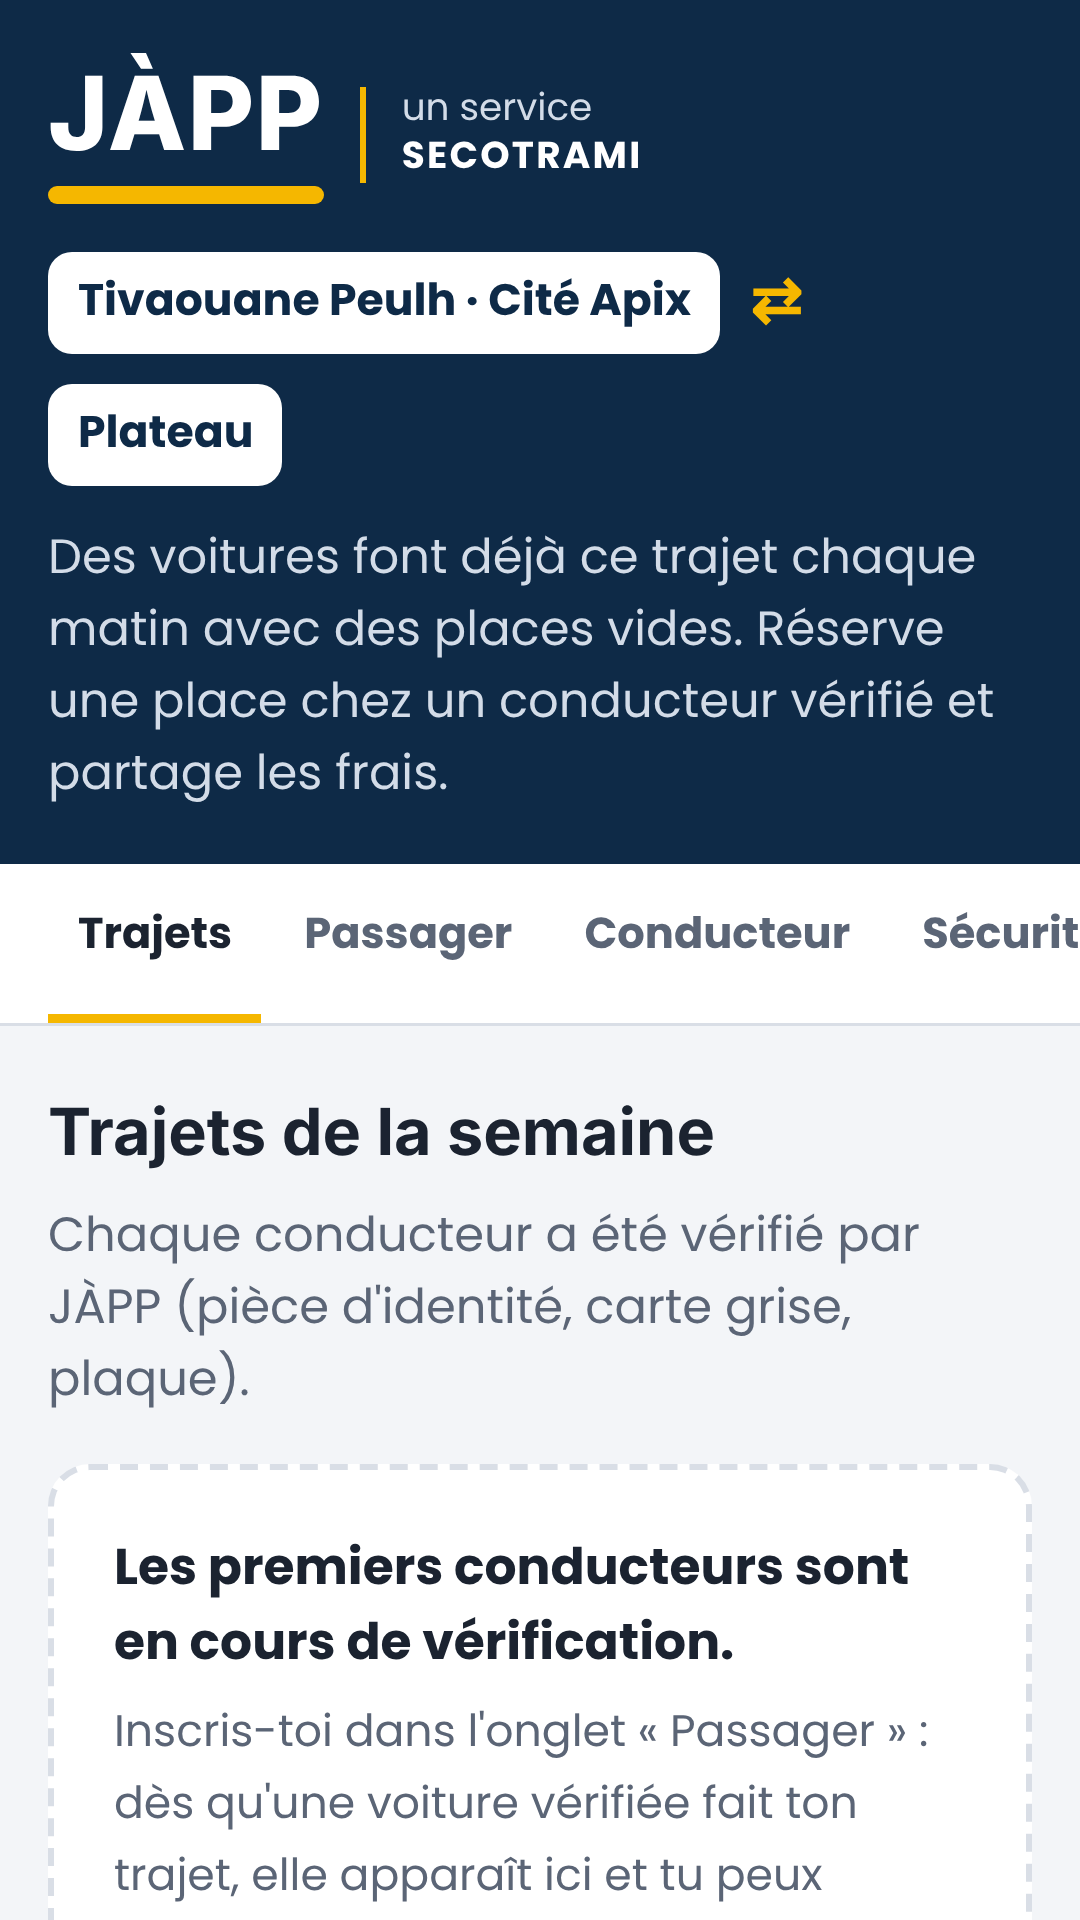
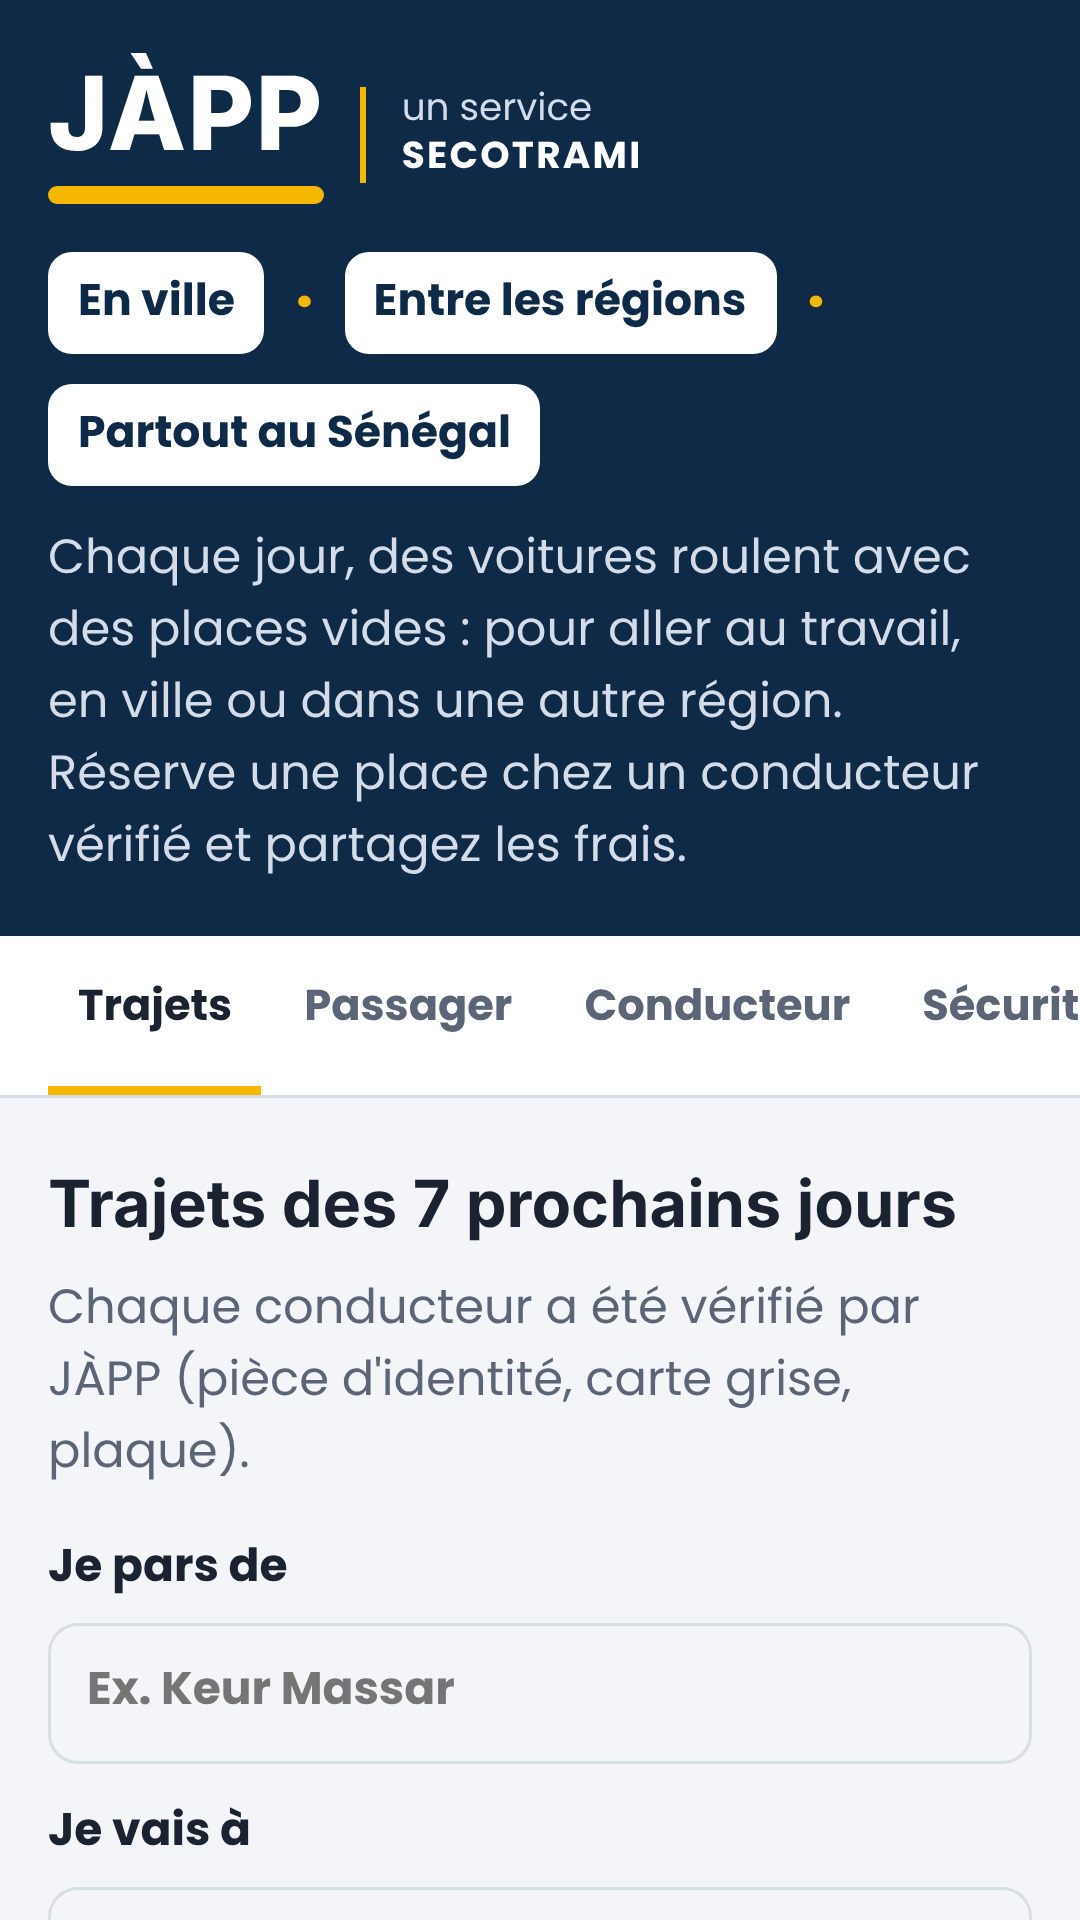
JÀPP : trajets partout au Sénégal (filtre départ/destination, jours, horaires libres)
Claude-Session: https://claude.ai/code/session_011qnmqo7aXx9AobSP2SRYtp

diff --git a/pages/japp.html b/pages/japp.html
@@ -4,10 +4,10 @@
 <meta charset="utf-8">
 <meta name="viewport" content="width=device-width,initial-scale=1,viewport-fit=cover">
 <title>JÀPP Covoiturage</title>
-<meta name="description" content="JÀPP, un service SECOTRAMI : covoiturage vérifié entre Tivaouane Peulh (Cité Apix) et le Plateau. Réserve une place dans une voiture qui fait déjà le trajet, ou propose tes places vides.">
+<meta name="description" content="JÀPP, un service SECOTRAMI : covoiturage vérifié partout au Sénégal. Réserve une place dans une voiture qui fait déjà le trajet, ou propose tes places vides.">
 <link rel="canonical" href="https://kaayxoolli-spec.github.io/japp.html">
 <meta property="og:title" content="JÀPP Covoiturage">
-<meta property="og:description" content="Tivaouane Peulh → Plateau, en voiture, avec des conducteurs vérifiés.">
+<meta property="og:description" content="Covoiturage partout au Sénégal, avec des conducteurs vérifiés.">
 <meta property="og:image" content="https://kaayxoolli-spec.github.io/assets/japp/icon.png">
 <meta name="theme-color" content="#0E2A47">
 <link rel="manifest" href="/assets/japp/manifest.webmanifest">
@@ -70,6 +70,7 @@ legend{font-weight:600;font-size:.95em;margin-bottom:8px}
 .chips{display:flex;flex-wrap:wrap;gap:8px}
 .chips label{display:flex;flex-direction:row;align-items:center;gap:6px;font-weight:500;background:var(--bg);border:1px solid var(--line);border-radius:999px;padding:6px 12px}
 .chips input{width:auto;margin:0}
+.filtre{margin-bottom:14px}
 .ok{background:var(--bg);border:1.5px solid var(--ok);border-radius:12px;padding:14px;display:grid;gap:10px}
 .ok b{color:var(--ok)}
 .days{display:flex;flex-wrap:wrap;gap:6px}
@@ -95,8 +96,8 @@ footer{color:var(--muted);font-size:.86em;padding-block:0 30px}
 <header>
   <div class="wrap">
     <div class="brand"><div class="logo">JÀPP<span></span></div><div class="by">un service<br><b>SECOTRAMI</b></div></div>
-    <div class="route"><span class="stop">Tivaouane Peulh · Cité Apix</span><span class="arrow">⇄</span><span class="stop">Plateau</span></div>
-    <p class="pitch">Des voitures font déjà ce trajet chaque matin avec des places vides. Réserve une place chez un conducteur vérifié et partage les frais.</p>
+    <div class="route"><span class="stop">En ville</span><span class="arrow">·</span><span class="stop">Entre les régions</span><span class="arrow">·</span><span class="stop">Partout au Sénégal</span></div>
+    <p class="pitch">Chaque jour, des voitures roulent avec des places vides : pour aller au travail, en ville ou dans une autre région. Réserve une place chez un conducteur vérifié et partagez les frais.</p>
   </div>
 </header>
 <nav aria-label="Sections">
@@ -110,8 +111,12 @@ footer{color:var(--muted);font-size:.86em;padding-block:0 30px}
 <main class="wrap">
 
 <section id="p-trajets" role="tabpanel" aria-labelledby="t-trajets">
-  <h2>Trajets de la semaine</h2>
+  <h2>Trajets des 7 prochains jours</h2>
   <p class="lead">Chaque conducteur a été vérifié par JÀPP (pièce d'identité, carte grise, plaque).</p>
+  <div class="row filtre">
+    <label for="fd">Je pars de<input id="fd" list="lieux" placeholder="Ex. Keur Massar" autocomplete="off"></label>
+    <label for="fa">Je vais à<input id="fa" list="lieux" placeholder="Ex. Dakar Plateau" autocomplete="off"></label>
+  </div>
   <div id="trips" class="trips">
     <div class="empty"><strong>Chargement des trajets…</strong></div>
   </div>
@@ -129,8 +134,12 @@ footer{color:var(--muted);font-size:.86em;padding-block:0 30px}
     <label for="pn">Prénom et nom<input id="pn" name="nom" autocomplete="name" required></label>
     <label for="pt">Téléphone WhatsApp<input id="pt" name="tel" type="tel" inputmode="tel" autocomplete="tel" placeholder="77 000 00 00" required></label>
     <div class="row">
-      <label for="ps">Sens<select id="ps" name="sens"><option>Tivaouane Peulh → Plateau</option><option>Plateau → Tivaouane Peulh</option><option>Aller et retour</option></select></label>
-      <label for="ph">Heure de départ<select id="ph" name="heure"><option>6h00 – 6h30</option><option selected>6h30 – 7h00</option><option>7h00 – 7h30</option><option>7h30 – 8h00</option><option>17h00 – 17h30</option><option>17h30 – 18h00</option><option>18h00 – 18h30</option><option>18h30 – 19h00</option></select></label>
+      <label for="pd">Je pars de<input id="pd" name="depart" list="lieux" placeholder="Ville ou quartier" required></label>
+      <label for="pv">Je vais à<input id="pv" name="dest" list="lieux" placeholder="Ville ou quartier" required></label>
+    </div>
+    <div class="row">
+      <label for="ph">Heure de départ<select id="ph" name="heure"><option>tôt le matin (5h – 7h)</option><option selected>le matin (7h – 10h)</option><option>en journée (10h – 16h)</option><option>le soir (16h – 20h)</option><option>la nuit (après 20h)</option><option>peu importe</option></select></label>
+      <label for="pr">Retour<select id="pr" name="retour"><option>aller simple</option><option>aller et retour le même jour</option><option>retour un autre jour</option></select></label>
     </div>
     <fieldset><legend>Quels jours ?</legend><div class="chips" id="pj">
       <label><input type="checkbox" name="jour" value="lundi" checked> Lun</label>
@@ -139,9 +148,10 @@ footer{color:var(--muted);font-size:.86em;padding-block:0 30px}
       <label><input type="checkbox" name="jour" value="jeudi" checked> Jeu</label>
       <label><input type="checkbox" name="jour" value="vendredi" checked> Ven</label>
       <label><input type="checkbox" name="jour" value="samedi"> Sam</label>
+      <label><input type="checkbox" name="jour" value="dimanche"> Dim</label>
     </div></fieldset>
-    <label for="pq">Point de départ (quartier, repère)<input id="pq" name="lieu" placeholder="Ex. rond-point Cité Apix"></label>
-    <label for="pa">Point d'arrivée au Plateau<input id="pa" name="arrivee" placeholder="Ex. Place de l'Indépendance"></label>
+    <label for="pq">Point de départ précis (repère)<input id="pq" name="lieu" placeholder="Ex. rond-point, station, marché"></label>
+    <label for="pa">Point d'arrivée précis (repère)<input id="pa" name="arrivee" placeholder="Ex. gare routière, lieu de travail"></label>
     <p class="err" id="e-place" role="alert"></p>
     <input type="text" name="site" tabindex="-1" autocomplete="off" aria-hidden="true" style="position:absolute;left:-9999px">
     <button class="btn btn-wa" type="submit">✅ M'inscrire comme passager</button>
@@ -152,7 +162,7 @@ footer{color:var(--muted);font-size:.86em;padding-block:0 30px}
 
 <section id="p-conduis" role="tabpanel" aria-labelledby="t-conduis" hidden>
   <h2>Je conduis : je propose mes places</h2>
-  <p class="lead">Tu fais déjà le trajet ? Prends 1 à 3 passagers vérifiés du quartier et partage tes frais d'essence et de péage.</p>
+  <p class="lead">Tu fais déjà le trajet, en ville ou vers une autre région ? Prends 1 à 4 passagers vérifiés et partage tes frais d'essence et de péage.</p>
   <form id="f-conduis" novalidate>
     <label for="cn">Prénom et nom<input id="cn" name="nom" autocomplete="name" required></label>
     <label for="ct">Téléphone WhatsApp<input id="ct" name="tel" type="tel" inputmode="tel" autocomplete="tel" placeholder="77 000 00 00" required></label>
@@ -161,10 +171,15 @@ footer{color:var(--muted);font-size:.86em;padding-block:0 30px}
       <label for="cp">Places libres<select id="cp" name="places"><option>1</option><option selected>2</option><option>3</option><option>4</option></select></label>
     </div>
     <div class="row">
-      <label for="ch">Départ le matin<select id="ch" name="matin"><option>6h00</option><option>6h15</option><option selected>6h30</option><option>6h45</option><option>7h00</option><option>7h15</option><option>7h30</option><option>pas le matin</option></select></label>
-      <label for="cr">Retour le soir<select id="cr" name="soir"><option>pas le soir</option><option>17h00</option><option>17h30</option><option selected>18h00</option><option>18h30</option><option>19h00</option></select></label>
+      <label for="cd">Je pars de<input id="cd" name="depart" list="lieux" placeholder="Ville ou quartier" required></label>
+      <label for="cv2">Je vais à<input id="cv2" name="dest" list="lieux" placeholder="Ville ou quartier" required></label>
     </div>
-    <label for="cq">Où tu passes (quartier, route)<input id="cq" name="lieu" placeholder="Ex. Cité Apix, autoroute à péage"></label>
+    <div class="row">
+      <label for="ch">Heure de départ (aller)<select id="ch" name="matin"><option>5h00</option><option>5h30</option><option>6h00</option><option selected>6h30</option><option>7h00</option><option>7h30</option><option>8h00</option><option>8h30</option><option>9h00</option><option>9h30</option><option>10h00</option><option>10h30</option><option>11h00</option><option>11h30</option><option>12h00</option><option>12h30</option><option>13h00</option><option>13h30</option><option>14h00</option><option>14h30</option><option>15h00</option><option>15h30</option><option>16h00</option><option>16h30</option><option>17h00</option><option>17h30</option><option>18h00</option><option>18h30</option><option>19h00</option><option>19h30</option><option>20h00</option><option>20h30</option><option>21h00</option><option>21h30</option><option>22h00</option><option>22h30</option></select></label>
+      <label for="cr">Heure du retour<select id="cr" name="soir"><option>pas de retour</option><option>5h00</option><option>5h30</option><option>6h00</option><option>6h30</option><option>7h00</option><option>7h30</option><option>8h00</option><option>8h30</option><option>9h00</option><option>9h30</option><option>10h00</option><option>10h30</option><option>11h00</option><option>11h30</option><option>12h00</option><option>12h30</option><option>13h00</option><option>13h30</option><option>14h00</option><option>14h30</option><option>15h00</option><option>15h30</option><option>16h00</option><option>16h30</option><option>17h00</option><option>17h30</option><option selected>18h00</option><option>18h30</option><option>19h00</option><option>19h30</option><option>20h00</option><option>20h30</option><option>21h00</option><option>21h30</option><option>22h00</option><option>22h30</option></select></label>
+    </div>
+    <fieldset><legend>Quels jours ?</legend><div class="chips"><label><input type="checkbox" name="cjour" value="lundi" checked> Lun</label><label><input type="checkbox" name="cjour" value="mardi" checked> Mar</label><label><input type="checkbox" name="cjour" value="mercredi" checked> Mer</label><label><input type="checkbox" name="cjour" value="jeudi" checked> Jeu</label><label><input type="checkbox" name="cjour" value="vendredi" checked> Ven</label><label><input type="checkbox" name="cjour" value="samedi"> Sam</label><label><input type="checkbox" name="cjour" value="dimanche"> Dim</label></div></fieldset>
+    <label for="cq">Par où tu passes (route, quartiers)<input id="cq" name="lieu" placeholder="Ex. autoroute à péage, Rufisque"></label>
     <p class="err" id="e-conduis" role="alert"></p>
     <input type="text" name="site" tabindex="-1" autocomplete="off" aria-hidden="true" style="position:absolute;left:-9999px">
     <button class="btn btn-ink" type="submit">🚗 M'inscrire comme conducteur</button>
@@ -193,7 +208,8 @@ footer{color:var(--muted);font-size:.86em;padding-block:0 30px}
 </section>
 
 </main>
-<footer class="wrap"><p>JÀPP, un service SECOTRAMI · Covoiturage Tivaouane Peulh ⇄ Plateau · Phase de test · WhatsApp 76 888 80 00 · <a href="/japp-confidentialite.html">Confidentialité</a></p></footer>
+<datalist id="lieux"><option value="Dakar Plateau"><option value="Médina"><option value="Fann – Point E"><option value="Mermoz – Sacré-Cœur"><option value="Liberté"><option value="Grand Yoff"><option value="HLM"><option value="Parcelles Assainies"><option value="Ouakam"><option value="Ngor – Almadies"><option value="Yoff"><option value="Patte d'Oie"><option value="Pikine"><option value="Guédiawaye"><option value="Thiaroye"><option value="Keur Massar"><option value="Malika"><option value="Tivaouane Peulh – Cité Apix"><option value="Keur Mbaye Fall"><option value="Mbao"><option value="Rufisque"><option value="Bargny"><option value="Sangalkam"><option value="Bambilor – Lac Rose"><option value="Diamniadio"><option value="Sébikotane"><option value="AIBD (aéroport)"><option value="Thiès"><option value="Mbour"><option value="Saly"><option value="Somone"><option value="Popenguine"><option value="Joal-Fadiouth"><option value="Tivaouane"><option value="Mboro"><option value="Louga"><option value="Saint-Louis"><option value="Richard-Toll"><option value="Podor"><option value="Matam"><option value="Touba"><option value="Mbacké"><option value="Diourbel"><option value="Bambey"><option value="Kaolack"><option value="Fatick"><option value="Foundiougne"><option value="Kaffrine"><option value="Tambacounda"><option value="Kédougou"><option value="Kolda"><option value="Sédhiou"><option value="Ziguinchor"><option value="Cap Skirring"><option value="Bignona"></datalist>
+<footer class="wrap"><p>JÀPP, un service SECOTRAMI · Covoiturage partout au Sénégal · Phase de test · WhatsApp 76 888 80 00 · <a href="/japp-confidentialite.html">Confidentialité</a></p></footer>
 
 <script>
 (function(){
@@ -224,12 +240,15 @@ footer{color:var(--muted);font-size:.86em;padding-block:0 30px}
   }
   function render(){
     if(!trips.length){emptyState();return;}
-    box.innerHTML=trips.map(function(t,k){
+    var fd=norm(document.getElementById('fd').value), fa=norm(document.getElementById('fa').value);
+    var shown=trips.map(function(t,k){return [t,k];}).filter(function(x){return (!fd||norm(x[0].depart).indexOf(fd)>=0)&&(!fa||norm(x[0].arrivee).indexOf(fa)>=0);});
+    if(!shown.length){box.innerHTML='<div class="empty"><strong>Pas encore de voiture sur ce trajet.</strong><span class="meta">Inscris-toi dans l\'onglet « Passager » avec ce trajet : JÀPP cherche un conducteur et te prévient.</span></div>';return;}
+    box.innerHTML=shown.map(function(x){var t=x[0],k=x[1];
       var any=t.jours.some(function(d){return d.libres>0;});
       return '<article class="trip" data-k="'+k+'">'
         +'<div class="trip-top"><span class="time">'+esc(t.heure)+'</span><span class="price">'+Number(t.prix).toLocaleString('fr-FR')+' F / place</span></div>'
         +'<div><b>'+esc(t.depart)+' → '+esc(t.arrivee)+'</b></div>'
-        +'<div class="meta">'+esc(t.voiture)+' · RDV : '+esc(t.rdv)+'</div>'
+        +'<div class="meta">'+esc(t.voiture)+' · RDV : '+esc(t.rdv)+' · '+t.jours.length+' jour'+(t.jours.length>1?'s':'')+' cette semaine</div>'
         +'<div class="trip-top"><span class="badge">✔ '+esc(t.conducteur)+' · vérifié</span><span class="seats">'+t.places+' place'+(t.places>1?'s':'')+'</span></div>'
         +(any?'<button class="btn btn-wa" type="button" data-open="'+k+'">Réserver une place</button>':'<div class="seats">Complet cette semaine</div>')
         +'<form class="resa" data-k="'+k+'" hidden novalidate>'
@@ -267,6 +286,8 @@ footer{color:var(--muted);font-size:.86em;padding-block:0 30px}
       btn.disabled=false;btn.textContent='Confirmer ma réservation';
     }).catch(function(){err.textContent='Pas de connexion. Vérifie ton internet et réessaie.';btn.disabled=false;btn.textContent='Confirmer ma réservation';});
   });
+  function norm(v){return String(v||'').toLowerCase().normalize('NFD').replace(/[\u0300-\u036f]/g,'').trim();}
+  ['fd','fa'].forEach(function(id){document.getElementById(id).addEventListener('input',render);});
   function load(){
     fetch(API,{cache:'no-store'}).then(function(r){return r.json();}).then(function(d){
       trips=(d&&d.trajets)||[]; render();
@@ -281,9 +302,10 @@ footer{color:var(--muted);font-size:.86em;padding-block:0 30px}
     ev.preventDefault(); var f=ev.target, err=document.getElementById('e-place'), btn=f.querySelector('button[type=submit]');
     var jours=[].slice.call(f.querySelectorAll('input[name=jour]:checked')).map(function(c){return c.value;});
     if(!f.nom.value.trim()||f.tel.value.replace(/\D/g,'').length<9){err.textContent='Écris ton nom et ton numéro WhatsApp complet.';return;}
+    if(!f.depart.value.trim()||!f.dest.value.trim()){err.textContent='Écris d\'où tu pars et où tu vas.';return;}
     if(!jours.length){err.textContent='Choisis au moins un jour.';return;}
     err.textContent='';btn.disabled=true;
-    var data={type:'passager',site:f.site.value,nom:f.nom.value,tel:f.tel.value,sens:f.sens.value,heure:f.heure.value,jours:jours.join(', '),lieu:f.lieu.value,arrivee:f.arrivee.value};
+    var data={type:'passager',site:f.site.value,nom:f.nom.value,tel:f.tel.value,sens:f.depart.value.trim()+' → '+f.dest.value.trim()+' ('+f.retour.value+')',heure:f.heure.value,jours:jours.join(', '),lieu:f.lieu.value,arrivee:f.arrivee.value};
     post(data).then(function(r){
       btn.disabled=false;
       if(!r.ok){err.textContent='Vérifie ton nom et ton numéro, puis réessaie.';return;}
@@ -296,9 +318,12 @@ footer{color:var(--muted);font-size:.86em;padding-block:0 30px}
   // Driver form
   document.getElementById('f-conduis').addEventListener('submit',function(ev){
     ev.preventDefault(); var f=ev.target, err=document.getElementById('e-conduis'), btn=f.querySelector('button[type=submit]');
+    var cj=[].slice.call(f.querySelectorAll('input[name=cjour]:checked')).map(function(c){return c.value;});
     if(!f.nom.value.trim()||f.tel.value.replace(/\D/g,'').length<9||!f.voiture.value.trim()){err.textContent='Écris ton nom, ton numéro complet et ta voiture.';return;}
+    if(!f.depart.value.trim()||!f.dest.value.trim()){err.textContent='Écris d\'où tu pars et où tu vas.';return;}
+    if(!cj.length){err.textContent='Choisis au moins un jour.';return;}
     err.textContent='';btn.disabled=true;
-    post({type:'conducteur',site:f.site.value,nom:f.nom.value,tel:f.tel.value,voiture:f.voiture.value,places:f.places.value,matin:f.matin.value,soir:f.soir.value,lieu:f.lieu.value}).then(function(r){
+    post({type:'conducteur',site:f.site.value,nom:f.nom.value,tel:f.tel.value,voiture:f.voiture.value,places:f.places.value,matin:f.matin.value,soir:f.soir.value,lieu:f.lieu.value,depart:f.depart.value,dest:f.dest.value,jours:cj.join(', ')}).then(function(r){
       btn.disabled=false;
       if(!r.ok){err.textContent='Vérifie les champs, puis réessaie.';return;}
       done(document.getElementById('o-conduis'),'<b>✅ Inscription reçue (n° '+esc(r.id)+')</b><span>Dernière étape : envoie ta pièce d\'identité, ton permis et ta carte grise à JÀPP sur WhatsApp. Dès que c\'est vérifié, tes trajets apparaissent dans l\'application.</span>'

diff --git a/pages/japp-confidentialite.html b/pages/japp-confidentialite.html
@@ -12,9 +12,9 @@ h1{font-size:1.4em;line-height:1.3}h2{font-size:1.1em;margin-top:1.6em}a{color:i
 .btn{display:inline-block;background:var(--ink);color:#fff;text-decoration:none;padding:12px 18px;border-radius:12px;font-weight:700}
 </style></head><body><header><b>JÀPP</b> <span style="color:#D3DCE8">· un service SECOTRAMI</span></header><main><h1>Politique de confidentialité de JÀPP</h1>
 <p>Dernière mise à jour : 18 novembre 2026</p>
-<p>JÀPP est un service de covoiturage entre Tivaouane Peulh et le Plateau (Dakar), proposé par <b>SECOTRAMI</b>. Cette page explique quelles informations nous gardons, pourquoi, et comment les faire corriger ou supprimer.</p>
+<p>JÀPP est un service de covoiturage partout au Sénégal, proposé par <b>SECOTRAMI</b>. Cette page explique quelles informations nous gardons, pourquoi, et comment les faire corriger ou supprimer.</p>
 <h2>Les informations que nous gardons</h2>
-<ul><li><b>Passagers :</b> prénom et nom, numéro de téléphone, sens et heure du trajet, jours souhaités, points de départ et d'arrivée indiqués.</li>
+<ul><li><b>Passagers :</b> prénom et nom, numéro de téléphone, départ, destination et heure du trajet, jours souhaités, points de départ et d'arrivée indiqués.</li>
 <li><b>Conducteurs :</b> prénom et nom, numéro de téléphone, voiture (marque, couleur), plaque, nombre de places, horaires et itinéraire.</li>
 <li><b>Réservations :</b> trajet, jour, heure, présence, paiement et montant.</li></ul>
 <p>L'application ne demande ni numéro de pièce d'identité, ni photo, ni position GPS, ni donnée bancaire. Les pièces d'identité, la filiation, le permis et la carte grise sont vérifiés par JÀPP sur WhatsApp ou en face à face. Ils ne sont pas enregistrés dans l'application.</p>
